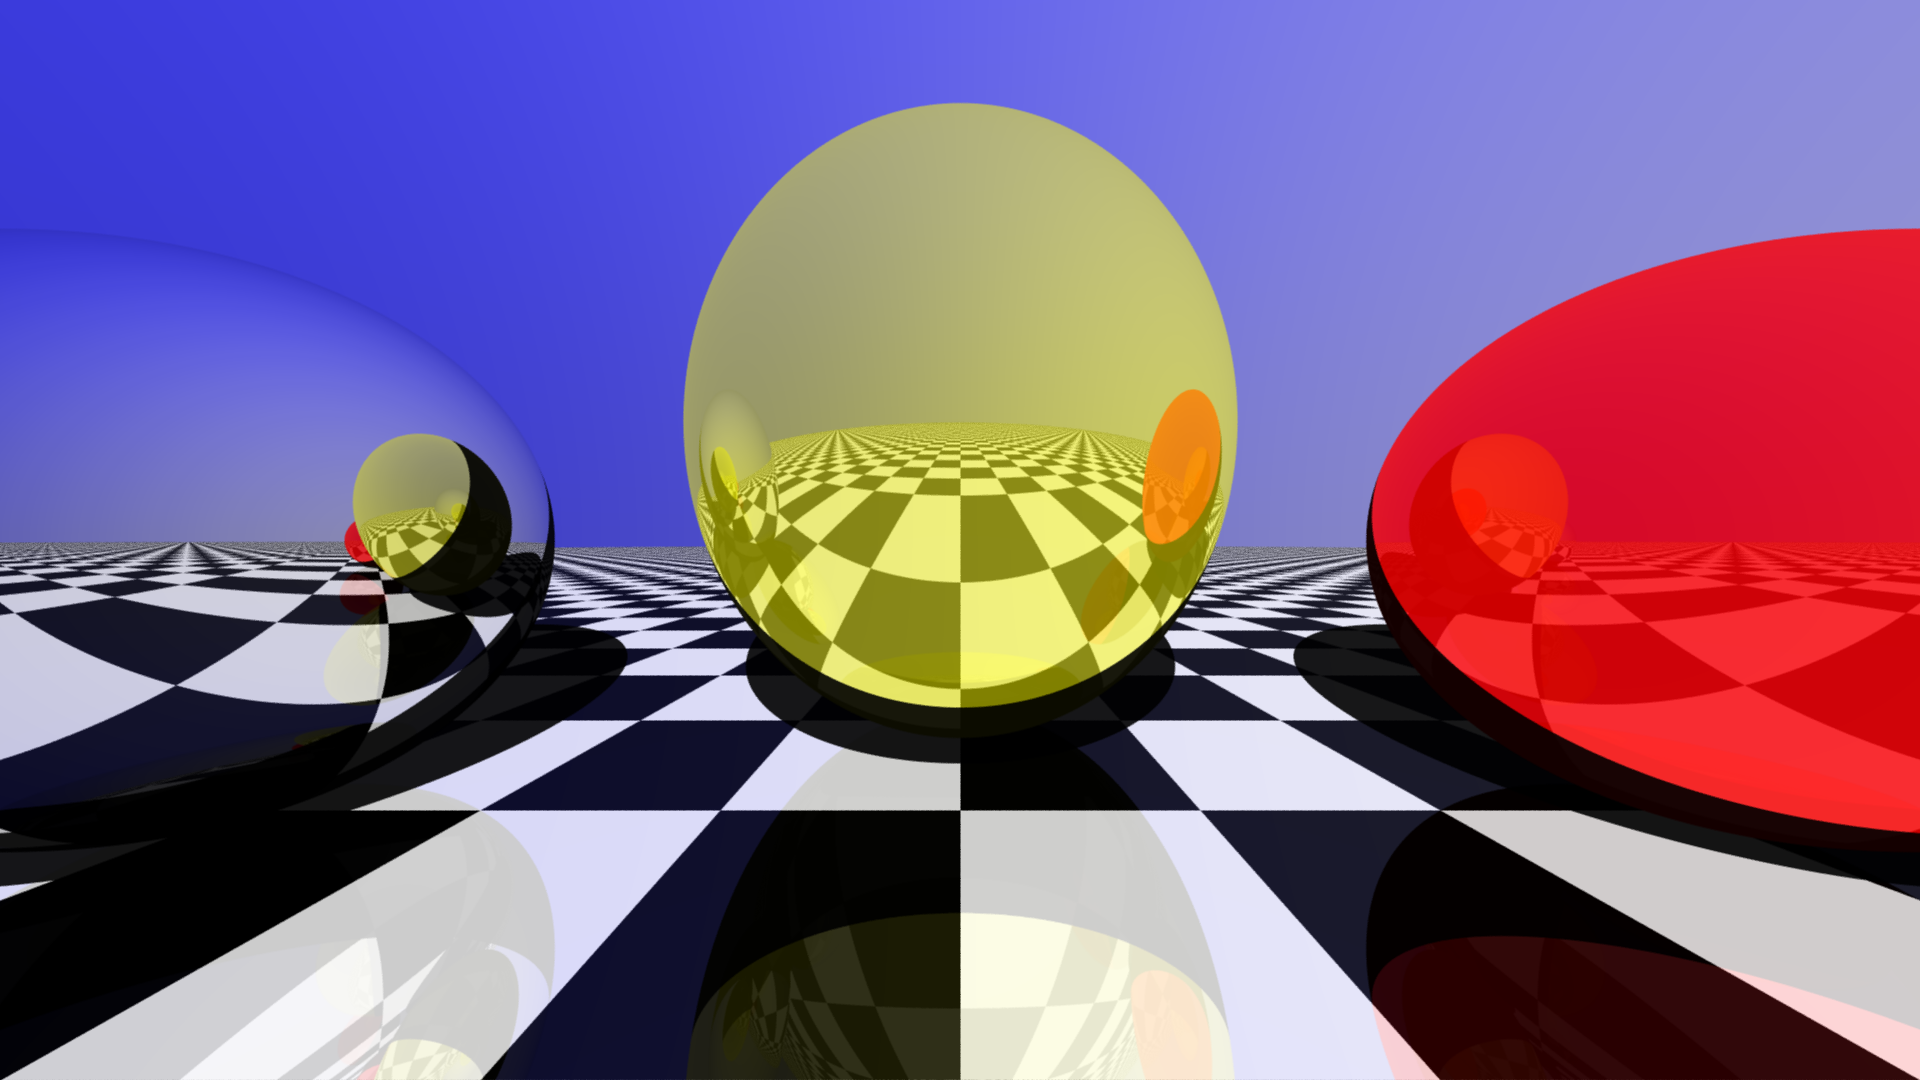
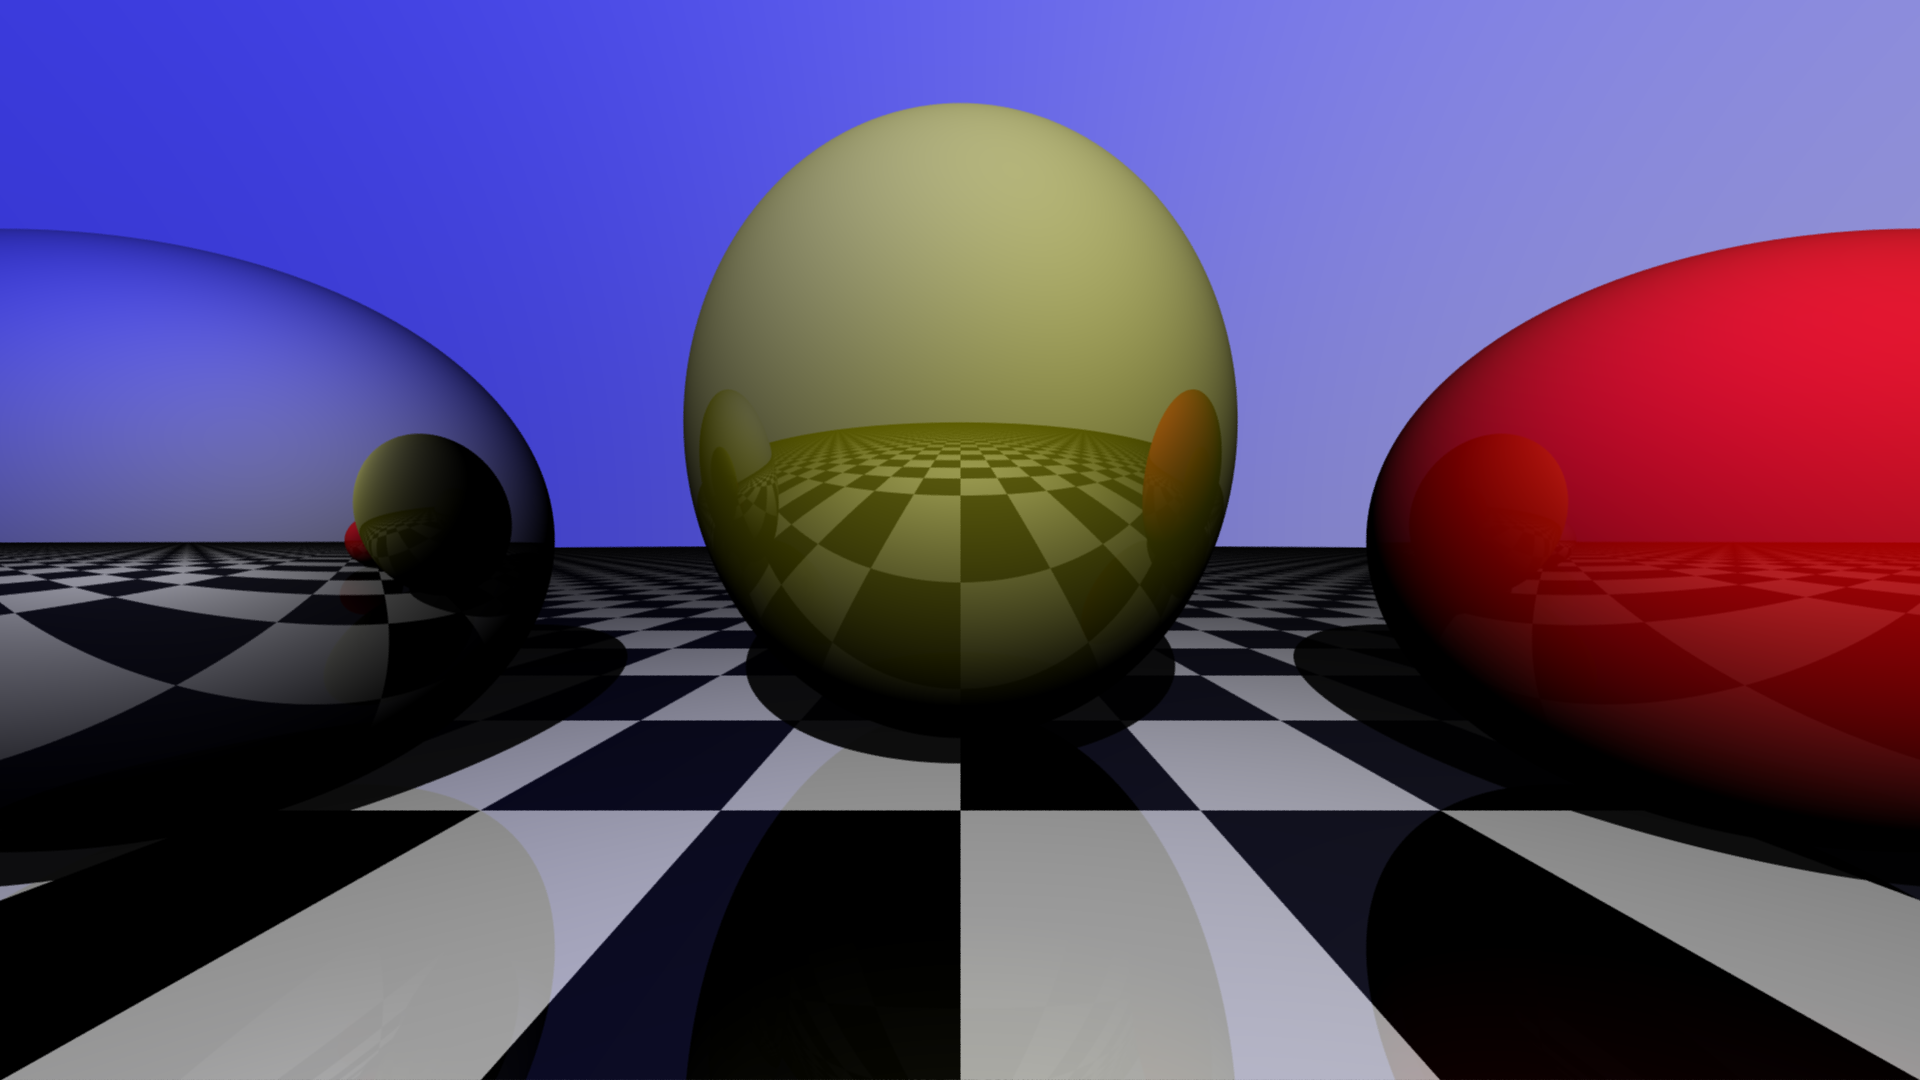
Add diffuse factor (phong lighting) + compute everything as float

diff --git a/src/raytracer/scene.rs b/src/raytracer/scene.rs
@@ -9,7 +9,7 @@ pub struct Scene {
     objects: Vec<Box<dyn Hittable>>,
 }
 
-fn background_color(ray: &Ray) -> (u8, u8, u8) {
+fn background_color(ray: &Ray) -> (f32, f32, f32) {
     let unit_x = Vec3::new(1.0, 0.0, 0.0);
     let unit_y = Vec3::new(0.0, 1.0, 0.0);
 
@@ -20,7 +20,7 @@ fn background_color(ray: &Ray) -> (u8, u8, u8) {
     let g = (dot_x * 100.0).min(255.0);
     let b = (100.0 + (dot_y * 100.0)).min(255.0);
 
-    (r as u8, g as u8, b as u8)
+    (r / 255.0, g / 255.0, b / 255.0)
 }
 
 fn reflect(r: &Vec3, n: &Vec3) -> Vec3 {
@@ -63,7 +63,7 @@ impl Scene {
         }
     }
 
-    pub fn trace(&self, ray: Ray, max_iter: u32) -> (f32, u8, u8, u8) {
+    pub fn trace(&self, ray: Ray, max_iter: u32) -> (f32, f32, f32, f32) {
         let mut closest_object: Option<usize> = None;
         let mut closest_distance = std::f32::INFINITY;
         let mut closest_hitinfo = HitInfo {
@@ -97,7 +97,7 @@ impl Scene {
 
                 let reflection_factor = object.get_reflection_factor();
 
-                let (mut r, mut g, mut b): (u8, u8, u8);
+                let (mut r, mut g, mut b): (f32, f32, f32);
                 if reflection_factor > 0.001 {
                     closest_hitinfo.normal.normalize();
                     let reflection = reflect(&-ray.direction(), &closest_hitinfo.normal);
@@ -117,9 +117,9 @@ impl Scene {
                         final_color_b += reflected_b as f32 * reflection_factor;
                     }
 
-                    r = final_color_r.min(255.0) as u8;
-                    g = final_color_g.min(255.0) as u8;
-                    b = final_color_b.min(255.0) as u8;
+                    r = final_color_r;
+                    g = final_color_g;
+                    b = final_color_b;
                 } else {
                     r = o_r;
                     g = o_g;
@@ -133,15 +133,22 @@ impl Scene {
 
                         direction.normalize_out_length(&mut length);
 
+                        let diffuse_factor =
+                            Vec3::dot_product(&direction, &closest_hitinfo.normal).max(0.0);
+
+                        r *= diffuse_factor;
+                        g *= diffuse_factor;
+                        b *= diffuse_factor;
+
                         match self.intersect(Ray::new(
                             closest_hitinfo.position + direction * 0.01,
                             direction,
                         )) {
                             Some(distance) => {
                                 if distance < length {
-                                    r /= 10;
-                                    g /= 10;
-                                    b /= 10;
+                                    r *= 0.1;
+                                    g *= 0.1;
+                                    b *= 0.1;
                                 }
                             }
                             _ => (),

diff --git a/src/main.rs b/src/main.rs
@@ -56,7 +56,7 @@ fn main() {
     scene.add_object(Box::new(TexturedSphere::new(
         Vec3::new(0.0, -10000.0, -1.0),
         10000.0,
-        (255u8, 255u8, 255u8),
+        (1.0, 1.0, 1.0),
         0.2,
     )));
 
@@ -64,7 +64,7 @@ fn main() {
     scene.add_object(Box::new(Sphere::new(
         Vec3::new(-1.5, 0.5, -1.0),
         0.5,
-        (0u8, 0u8, 0u8),
+        (0.0, 0.0, 0.0),
         0.9,
     )));
 
@@ -72,7 +72,7 @@ fn main() {
     scene.add_object(Box::new(Sphere::new(
         Vec3::new(0.0, 0.75, -1.5),
         0.75,
-        (255u8, 255u8, 0u8),
+        (1.0, 1.0, 0.0),
         0.5,
     )));
 
@@ -80,7 +80,7 @@ fn main() {
     scene.add_object(Box::new(Sphere::new(
         Vec3::new(1.5, 0.5, -1.0),
         0.5,
-        (255u8, 0u8, 0u8),
+        (1.0, 0.0, 0.0),
         0.2,
     )));
 
@@ -113,9 +113,9 @@ fn main() {
 
         for y in min_y..max_y {
             for x in min_x..max_x {
-                let mut color_r = 0u32;
-                let mut color_g = 0u32;
-                let mut color_b = 0u32;
+                let mut color_r = 0f32;
+                let mut color_g = 0f32;
+                let mut color_b = 0f32;
                 for i in 0..RAY_PER_PIXEL {
                     let factor_x = (x as f32 + random_offsets[random_offset + 0]) / WIDTH as f32;
                     let factor_y = (y as f32 + random_offsets[random_offset + 1]) / HEIGHT as f32;
@@ -127,16 +127,20 @@ fn main() {
                     let ray = camera.get_ray(factor_x, factor_y);
                     let (_, r, g, b) = scene.trace(ray, MAX_ITERATION);
 
-                    color_r += r as u32;
-                    color_g += g as u32;
-                    color_b += b as u32;
+                    color_r += r;
+                    color_g += g;
+                    color_b += b;
                 }
 
-                color_r /= RAY_PER_PIXEL;
-                color_g /= RAY_PER_PIXEL;
-                color_b /= RAY_PER_PIXEL;
-                buffer[(y * WIDTH + x) as usize] =
-                    color(color_r as u8, color_g as u8, color_b as u8);
+                color_r /= RAY_PER_PIXEL as f32;
+                color_g /= RAY_PER_PIXEL as f32;
+                color_b /= RAY_PER_PIXEL as f32;
+
+                let u8_r = (color_r * 255.0).min(255.0) as u8;
+                let u8_g = (color_g * 255.0).min(255.0) as u8;
+                let u8_b = (color_b * 255.0).min(255.0) as u8;
+
+                buffer[(y * WIDTH + x) as usize] = color(u8_r, u8_g, u8_b);
             }
         }
 

diff --git a/src/raytracer/sphere.rs b/src/raytracer/sphere.rs
@@ -6,13 +6,18 @@ use super::vec3::Vec3;
 #[derive(Copy, Clone, Debug, PartialEq)]
 pub struct Sphere {
     center: Vec3,
-    color: (u8, u8, u8),
+    color: (f32, f32, f32),
     radius: f32,
     reflection_factor: f32,
 }
 
 impl Sphere {
-    pub fn new(center: Vec3, radius: f32, color: (u8, u8, u8), reflection_factor: f32) -> Sphere {
+    pub fn new(
+        center: Vec3,
+        radius: f32,
+        color: (f32, f32, f32),
+        reflection_factor: f32,
+    ) -> Sphere {
         Sphere {
             center,
             radius,
@@ -25,7 +30,7 @@ impl Sphere {
         self.center
     }
 
-    pub fn get_color(&self) -> (u8, u8, u8) {
+    pub fn get_color(&self) -> (f32, f32, f32) {
         self.color
     }
 
@@ -75,7 +80,7 @@ impl Hittable for Sphere {
         None
     }
 
-    fn get_color(&self, position: &Vec3) -> (u8, u8, u8) {
+    fn get_color(&self, position: &Vec3) -> (f32, f32, f32) {
         self.get_color()
     }
 

diff --git a/src/raytracer/textured_sphere.rs b/src/raytracer/textured_sphere.rs
@@ -13,7 +13,7 @@ impl TexturedSphere {
     pub fn new(
         center: Vec3,
         radius: f32,
-        color: (u8, u8, u8),
+        color: (f32, f32, f32),
         reflection_factor: f32,
     ) -> TexturedSphere {
         TexturedSphere {
@@ -27,7 +27,7 @@ impl Hittable for TexturedSphere {
         self.sphere.compute_hit(ray, hitinfo)
     }
 
-    fn get_color(&self, position: &Vec3) -> (u8, u8, u8) {
+    fn get_color(&self, position: &Vec3) -> (f32, f32, f32) {
         let up = Vec3::new(0.0, 1.0, 0.0);
 
         let size = 1.0;
@@ -37,7 +37,7 @@ impl Hittable for TexturedSphere {
         if (position.x.rem_euclid(size) > size / 2.0) ^ is_even {
             self.sphere.get_color()
         } else {
-            (0, 0, 0)
+            (0.0, 0.0, 0.0)
         }
     }
 

diff --git a/src/raytracer/hittable.rs b/src/raytracer/hittable.rs
@@ -10,7 +10,7 @@ pub struct HitInfo {
 pub trait Hittable {
     fn compute_hit(&self, ray: &Ray, hitinfo: Option<&mut HitInfo>) -> Option<f32>;
 
-    fn get_color(&self, position: &Vec3) -> (u8, u8, u8);
+    fn get_color(&self, position: &Vec3) -> (f32, f32, f32);
 
     fn get_reflection_factor(&self) -> f32;
 }
